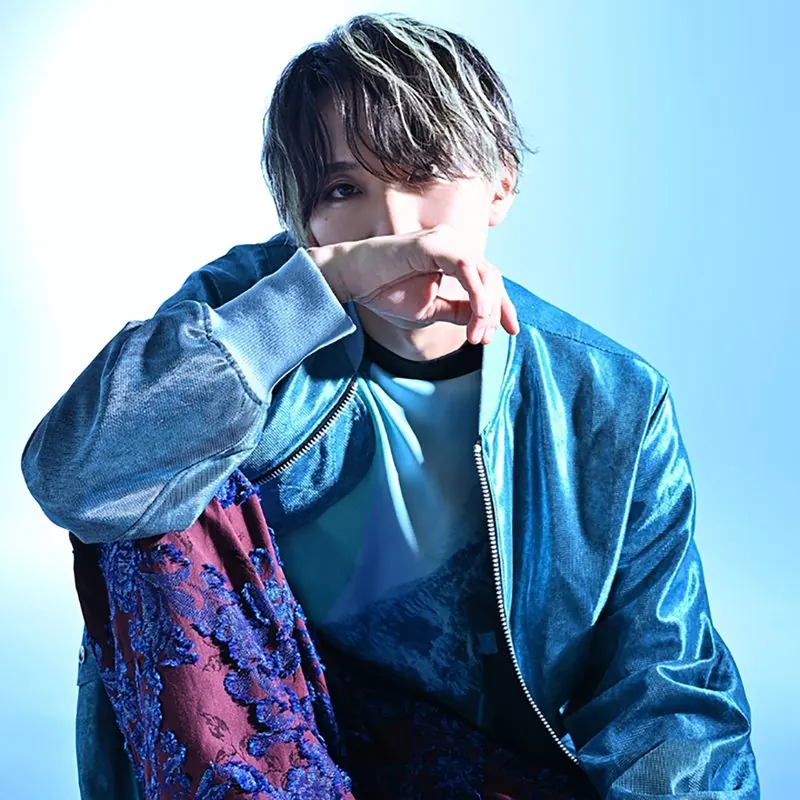
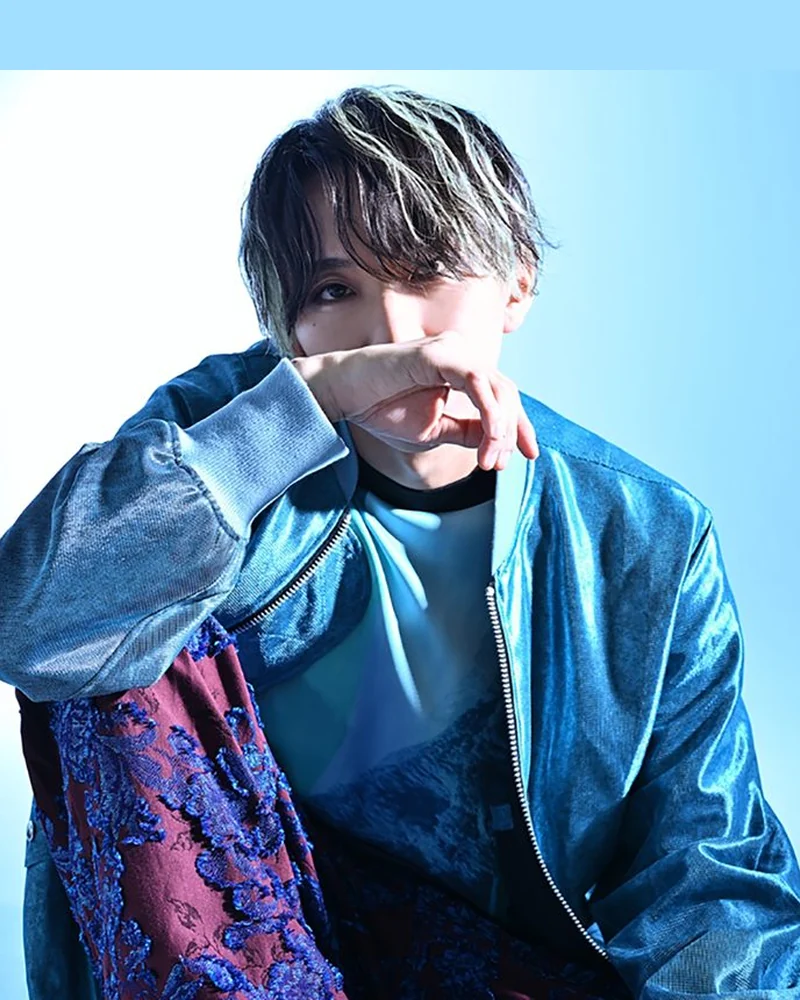
審査員・ANCHOR写真の頭頂が切れないよう切り抜きを調整
山之口理香子は顔が上寄りになるよう4:5で切り直し、ANCHORは元画像の上端を切らず空の色で余白を足した。

diff --git a/index.html b/index.html
@@ -549,7 +549,7 @@ html.has-sticky-entry{padding-bottom:var(--sticky-h,64px)}
 <div class="wrap">
 <h2 class="stagger">プロデューサー</h2>
 <article class="stagger">
-<div class="portrait"><picture><source srcset="images/anchor.webp" type="image/webp"><img src="images/anchor.jpg" width="800" height="800" alt="ANCHOR" loading="lazy"></picture></div>
+<div class="portrait"><picture><source srcset="images/anchor.webp" type="image/webp"><img src="images/anchor.jpg" width="800" height="1000" alt="ANCHOR" loading="lazy"></picture></div>
 <p class="role">企画・音楽・最終審査のクリエイティブディレクション</p>
 <h3 class="person-name">ANCHOR</h3>
 <p class="credits">地縛少年花子くん OP／ZiNG／Ando／名称非公開 全曲プロデュース</p>
